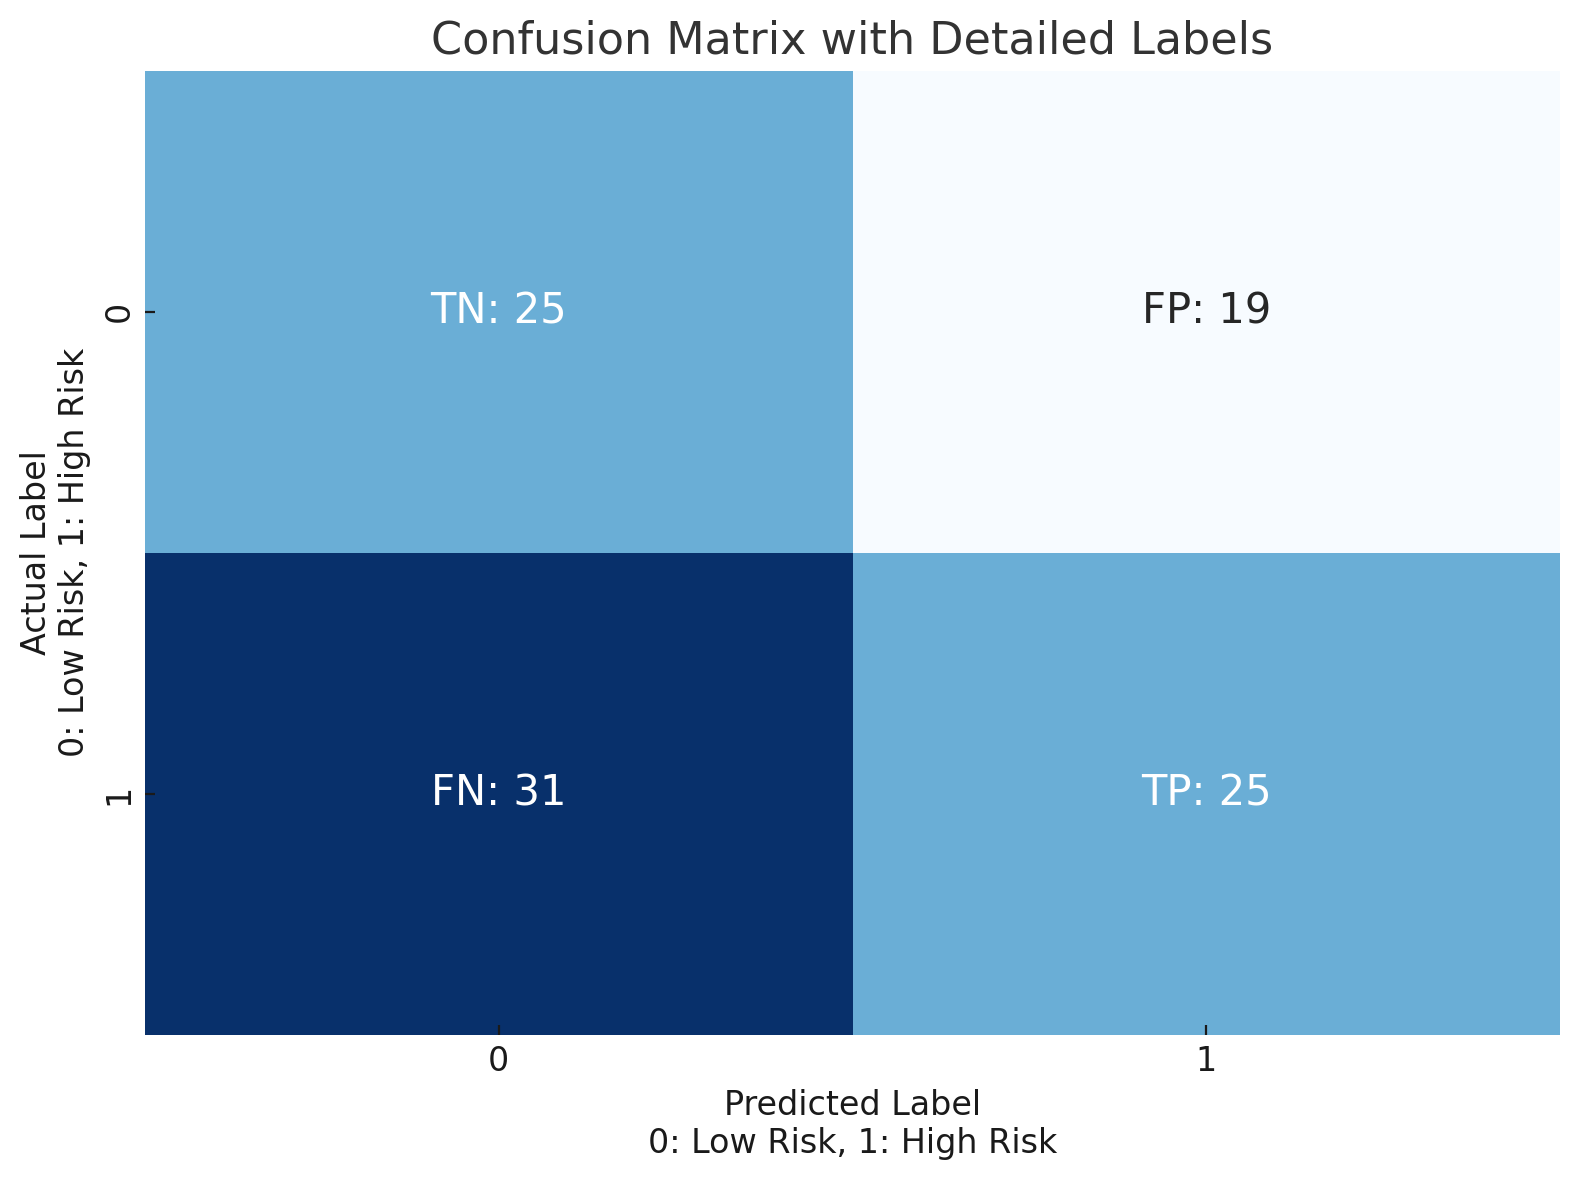
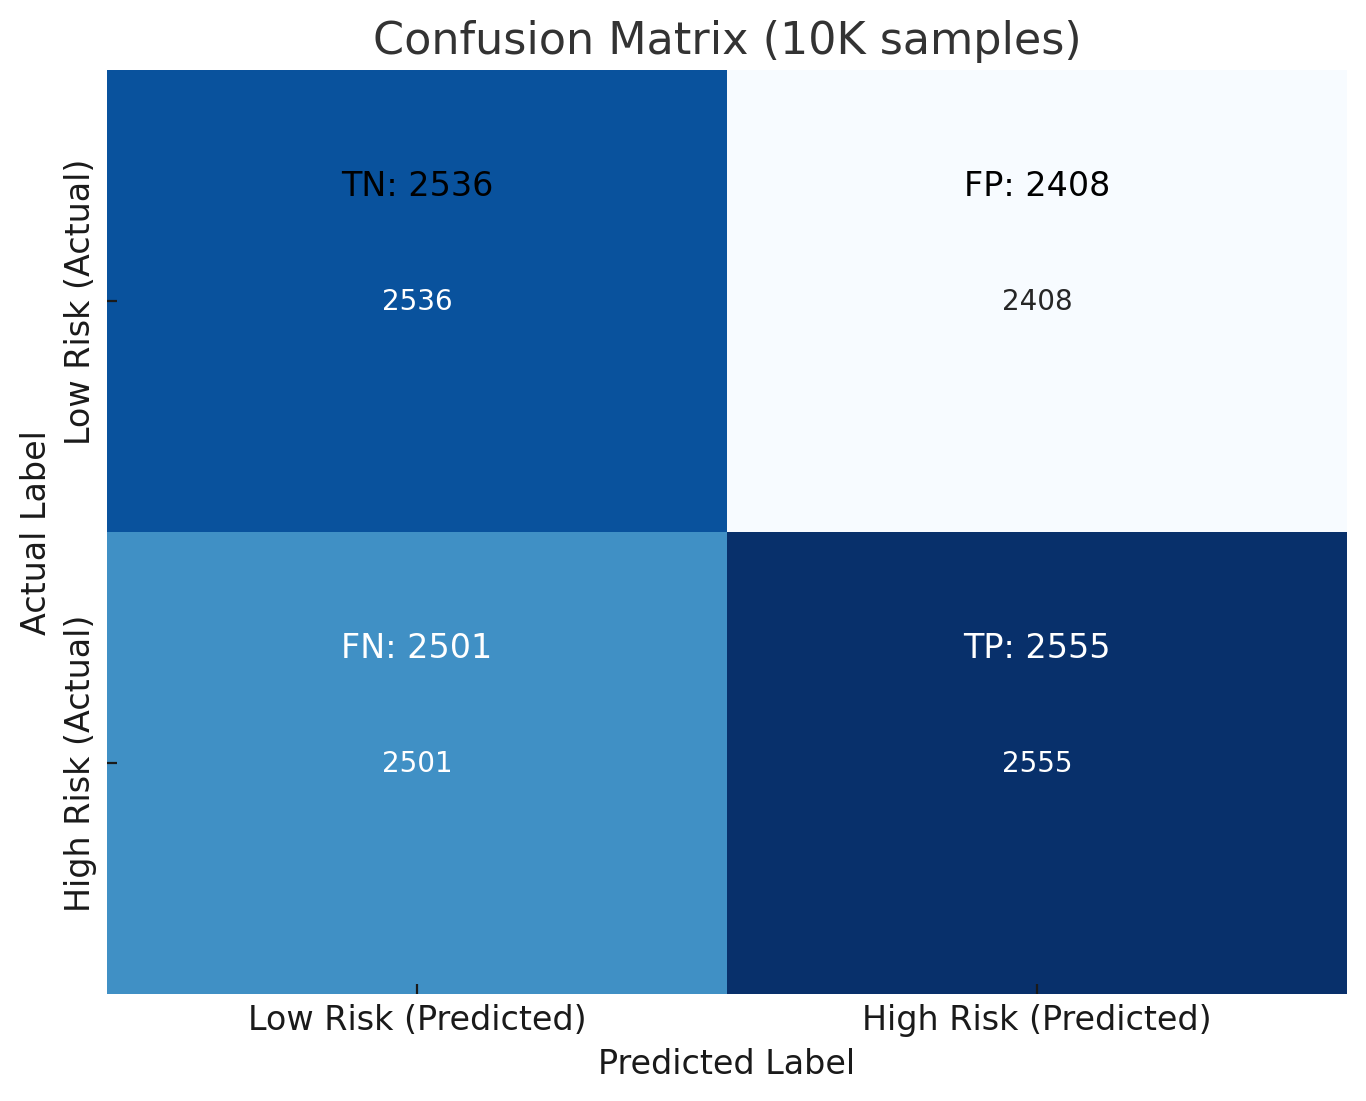
tested results with more samples

diff --git a/README.md b/README.md
@@ -118,13 +118,6 @@ The early risk detection system has achieved the following outcomes:
   
 The following plots provide a detailed view of the model's performance:
 
-1. **Confusion Matrix**  
-   ![Confusion Matrix](results/confusion_matrix.png)  
-   This plot shows the classification performance between high-risk and low-risk battery cells.  
-   - The model correctly predicted 25 high-risk cases and 25 low-risk cases.
-   - It misclassified 31 high-risk cells as low-risk and 19 low-risk cells as high-risk.
-   - The matrix gives insight into the overall classification accuracy, as well as areas where the model could be improved (i.e., reducing false positives and false negatives).
-
    ### Confusion Matrix Definitions
 
     In the context of a binary classification model, the confusion matrix helps visualize the performance of the model by comparing the actual and predicted classifications. The matrix includes:
@@ -184,6 +177,13 @@ The following plots provide a detailed view of the model's performance:
 
     Then, applying the formulas will help calculate key performance metrics such as accuracy, precision, recall, F1 score, and others.
 
+1. **Confusion Matrix**  
+   ![Confusion Matrix](results/confusion_matrix.png)  
+   This plot shows the classification performance between high-risk and low-risk battery cells.  
+   - The model correctly predicted 2536 high-risk cases and 2555 low-risk cases.
+   - It misclassified 2501 high-risk cells as low-risk and 2408 low-risk cells as high-risk.
+   - The matrix gives insight into the overall classification accuracy, as well as areas where the model could be improved (i.e., reducing false positives and false negatives).
+   
 2. **ROC Curve**  
    ![ROC Curve](results/roc_curve.png) 
    - The ROC curve illustrates the trade-off between the true positive rate and false positive rate, with an improved AUC score of 0.84, showing better classification performance.
